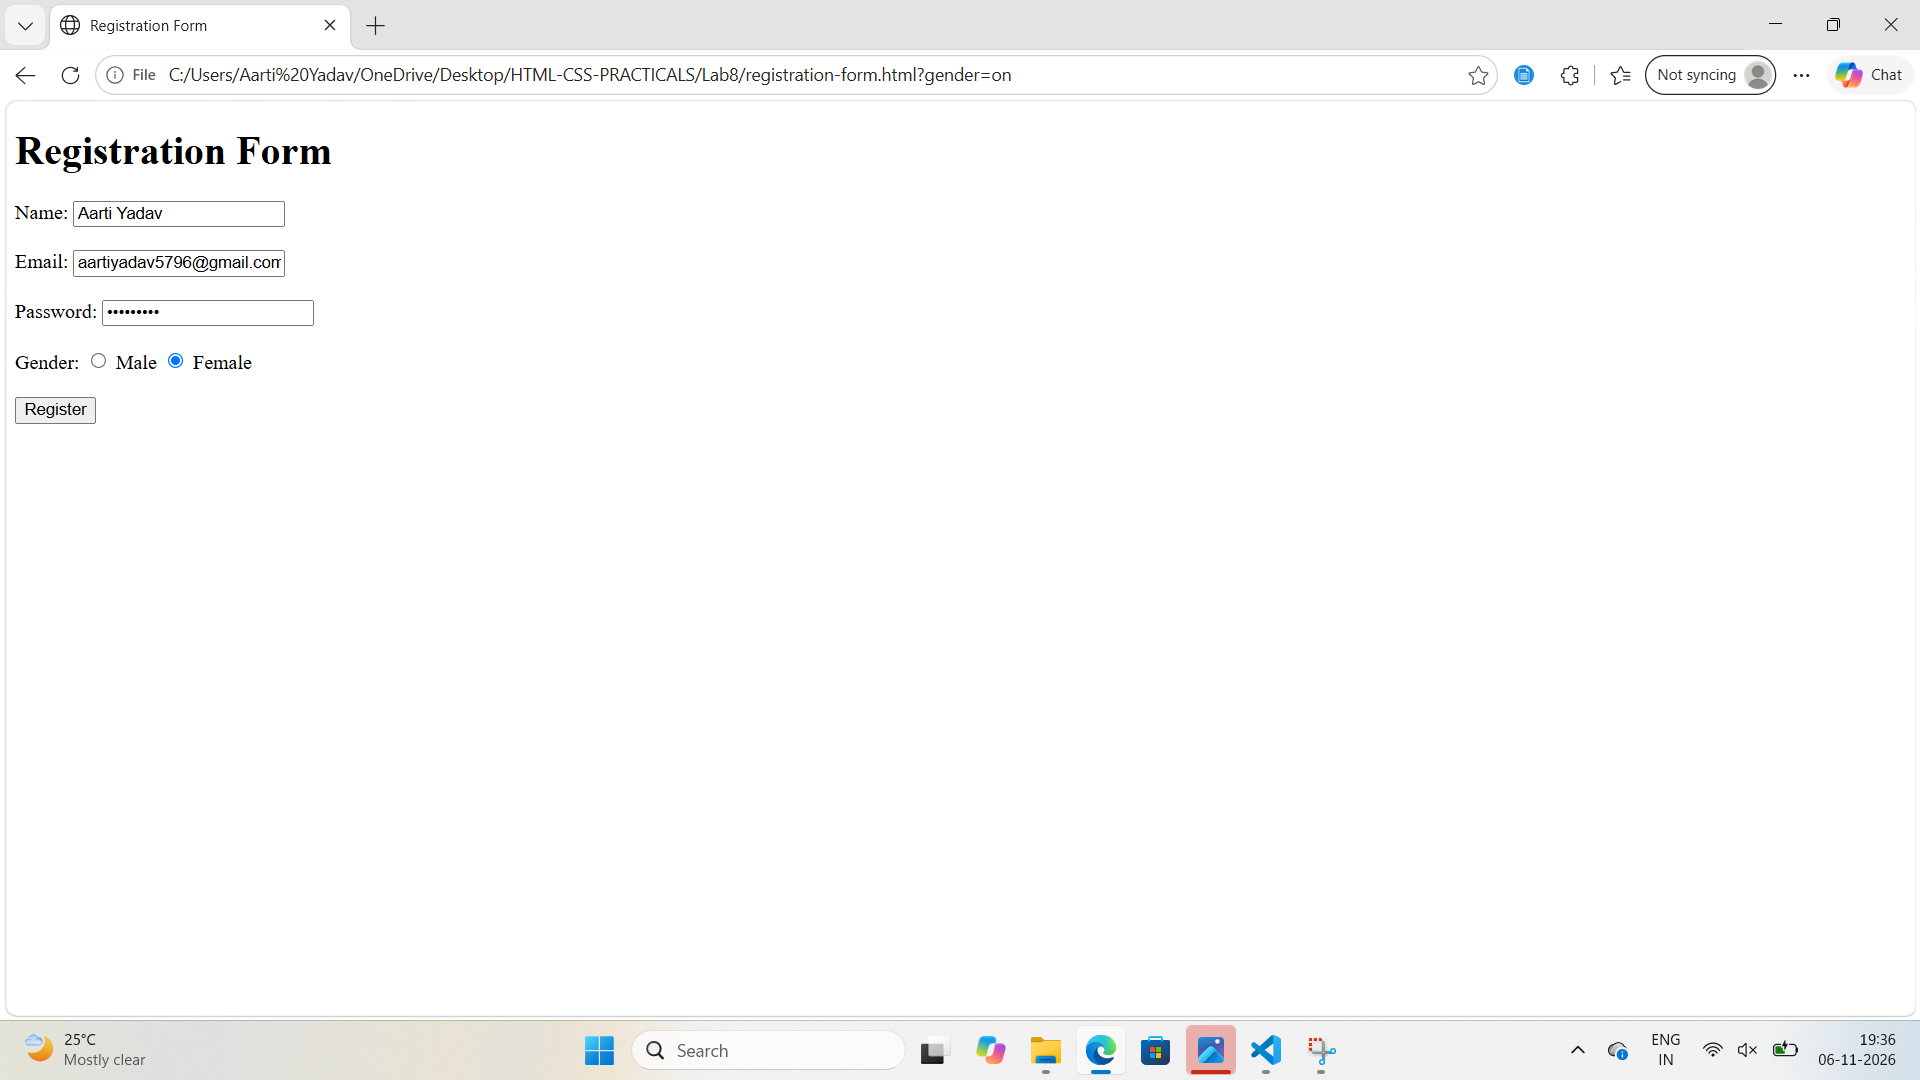
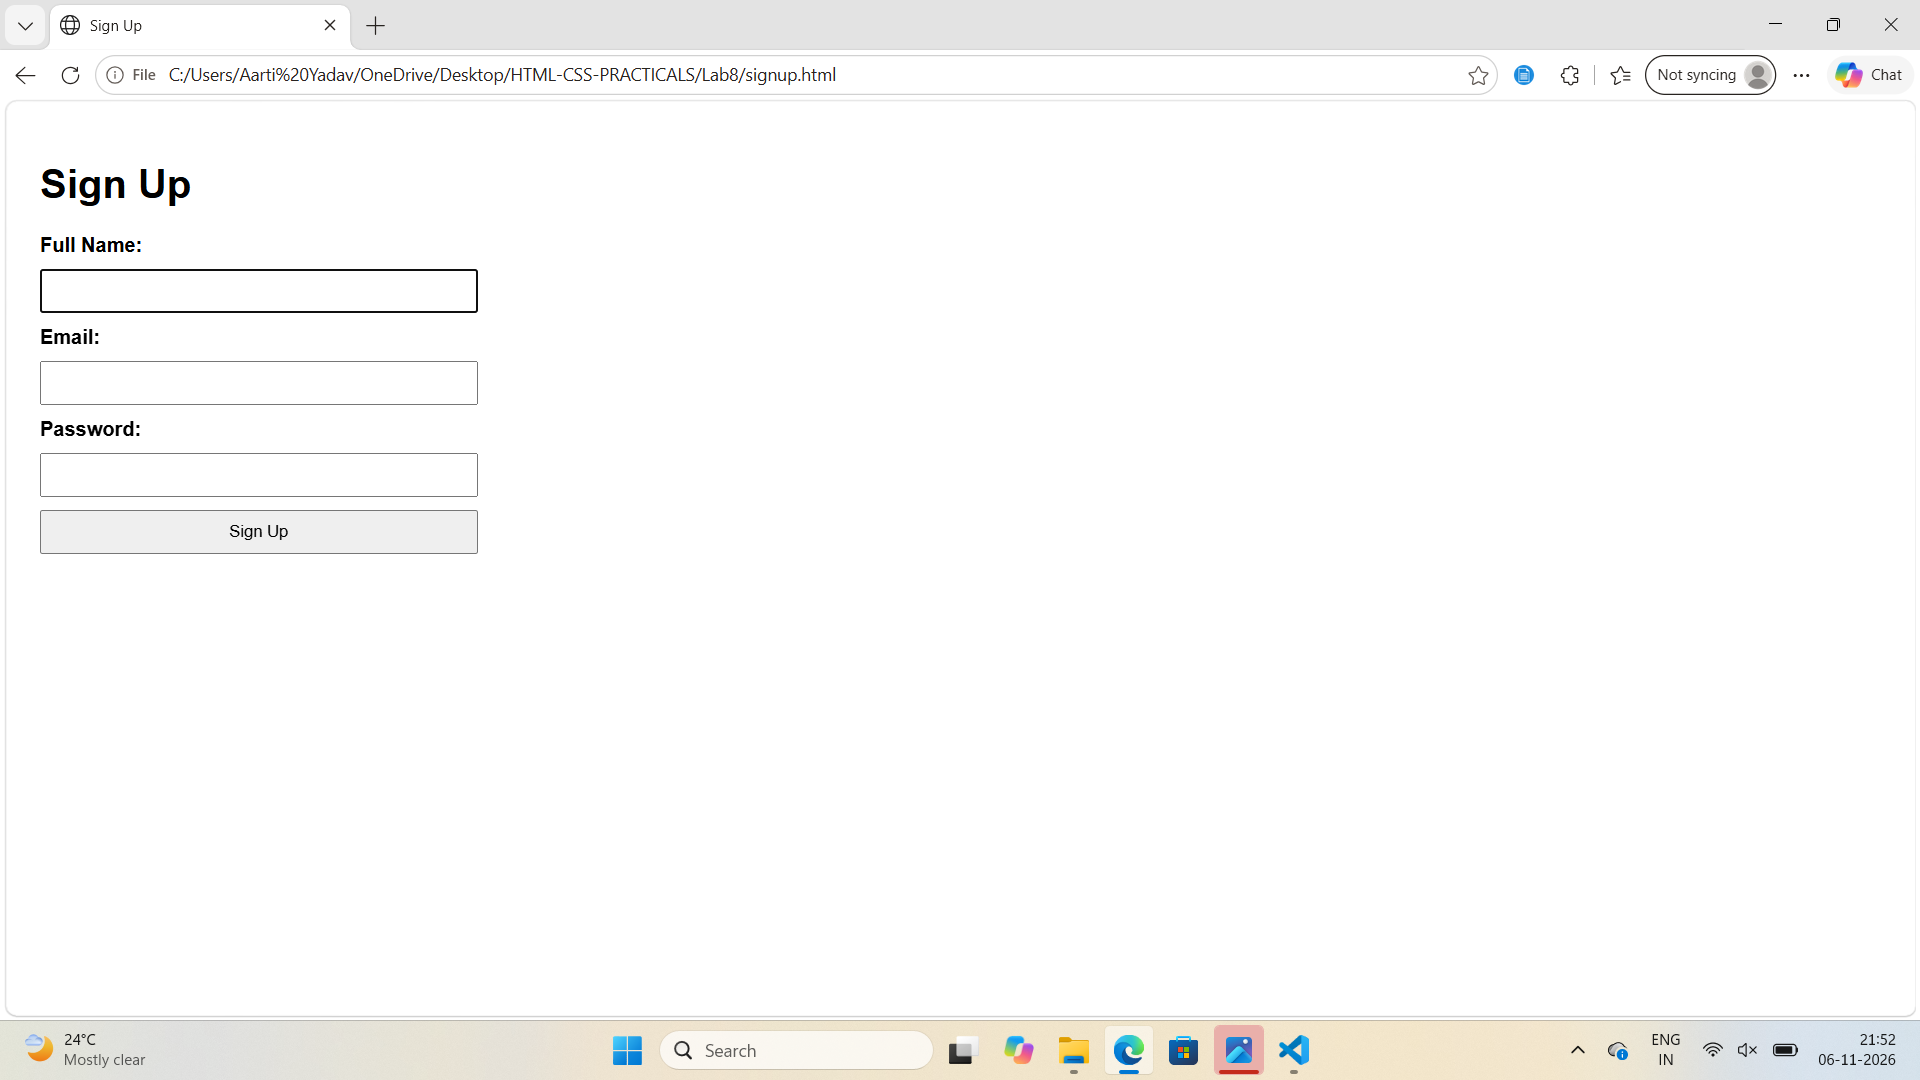
Lab8 complete - Sign-Up Forms and Choices

diff --git a/Lab8/signup.html b/Lab8/signup.html
@@ -1,0 +1,40 @@
+<!-- Name: Aarti Yadav, Roll No: 2410303005, Assignment: 8 -->
+<!DOCTYPE html>
+<html>
+<head>
+    <title>Sign Up</title>
+    <style>
+        body {
+            font-family: Arial, sans-serif;
+            padding: 20px;
+        }
+        form {
+            max-width: 350px;
+            display: flex;
+            flex-direction: column;
+            gap: 10px;
+        }
+        label {
+            font-weight: bold;
+        }
+        input {
+            padding: 8px;
+        }
+    </style>
+</head>
+<body>
+    <h1>Sign Up</h1>
+    <form method="post" action="thanks.html">
+        <label for="fullname">Full Name:</label>
+        <input type="text" id="fullname" name="fullname">
+
+        <label for="email">Email:</label>
+        <input type="email" id="email" name="email">
+
+        <label for="password">Password:</label>
+        <input type="password" id="password" name="password">
+
+        <input type="submit" value="Sign Up">
+    </form>
+</body>
+</html>

diff --git a/Lab8/choices.html b/Lab8/choices.html
@@ -1,0 +1,39 @@
+<!-- Name: Aarti Yadav, Roll No: 2410303005, Assignment: 8 -->
+<!DOCTYPE html>
+<html>
+<head>
+    <title>Choices</title>
+    <style>
+        body {
+            font-family: Arial, sans-serif;
+            padding: 20px;
+        }
+        form {
+            max-width: 350px;
+            display: flex;
+            flex-direction: column;
+            gap: 10px;
+        }
+    </style>
+</head>
+<body>
+    <h1>Choices</h1>
+    <form>
+        <p><b>Gender:</b></p>
+        <label>
+            <input type="radio" name="gender" value="Female"> Female
+        </label>
+        <label>
+            <input type="radio" name="gender" value="Male"> Male
+        </label>
+
+        <label for="course"><b>Course:</b></label>
+        <select id="course" name="course">
+            <option value="BCA">BCA</option>
+            <option value="B.Tech">B.Tech</option>
+        </select>
+
+        <input type="submit" value="Submit">
+    </form>
+</body>
+</html>

diff --git a/Lab8/signup-required.html b/Lab8/signup-required.html
@@ -1,0 +1,37 @@
+<!-- Name: Aarti Yadav, Roll No: 2410303005, Assignment: 8 -->
+<!DOCTYPE html>
+<html>
+<head>
+    <title>Sign Up - Required</title>
+    <style>
+        body {
+            font-family: Arial, sans-serif;
+            padding: 20px;
+        }
+        form {
+            max-width: 350px;
+            display: flex;
+            flex-direction: column;
+            gap: 10px;
+        }
+        label {
+            font-weight: bold;
+        }
+        input {
+            padding: 8px;
+        }
+    </style>
+</head>
+<body>
+    <h1>Sign Up</h1>
+    <form method="post" action="thanks.html">
+        <label for="fullname">Full Name:</label>
+        <input type="text" id="fullname" name="fullname" placeholder="Enter your full name" required>
+
+        <label for="email">Email:</label>
+        <input type="email" id="email" name="email" required>
+
+        <input type="submit" value="Submit">
+    </form>
+</body>
+</html>

diff --git a/Lab8/README.md b/Lab8/README.md
@@ -1,16 +1,16 @@
-# Lab 8 - Forms in HTML
+# Lab 8 - Sign-Up Forms and Choices
 
-## Task 1 - Registration Form
-- File: registration-form.html
-- Used form tag with text, email, password and radio button.
+## Task 1 - Sign-Up Form
+- File: signup.html
+- Form with method post and action thanks.html, labelled fields for full name, email and password.
 - Screenshot: images/task1.png
 
-## Task 2 - Login Form
-- File: login-form.html
-- Used form tag with username, password and checkbox.
+## Task 2 - Choices
+- File: choices.html
+- Gender question with two radio buttons Female and Male, and course dropdown with BCA and B.Tech.
 - Screenshot: images/task2.png
 
-## Task 3 - Feedback Form
-- File: feedback-form.html
-- Used form tag with select and textarea.
+## Task 3 - Required Fields
+- File: signup-required.html
+- Full name and email fields both required, placeholder on name field, Submit button.
 - Screenshot: images/task3.png
